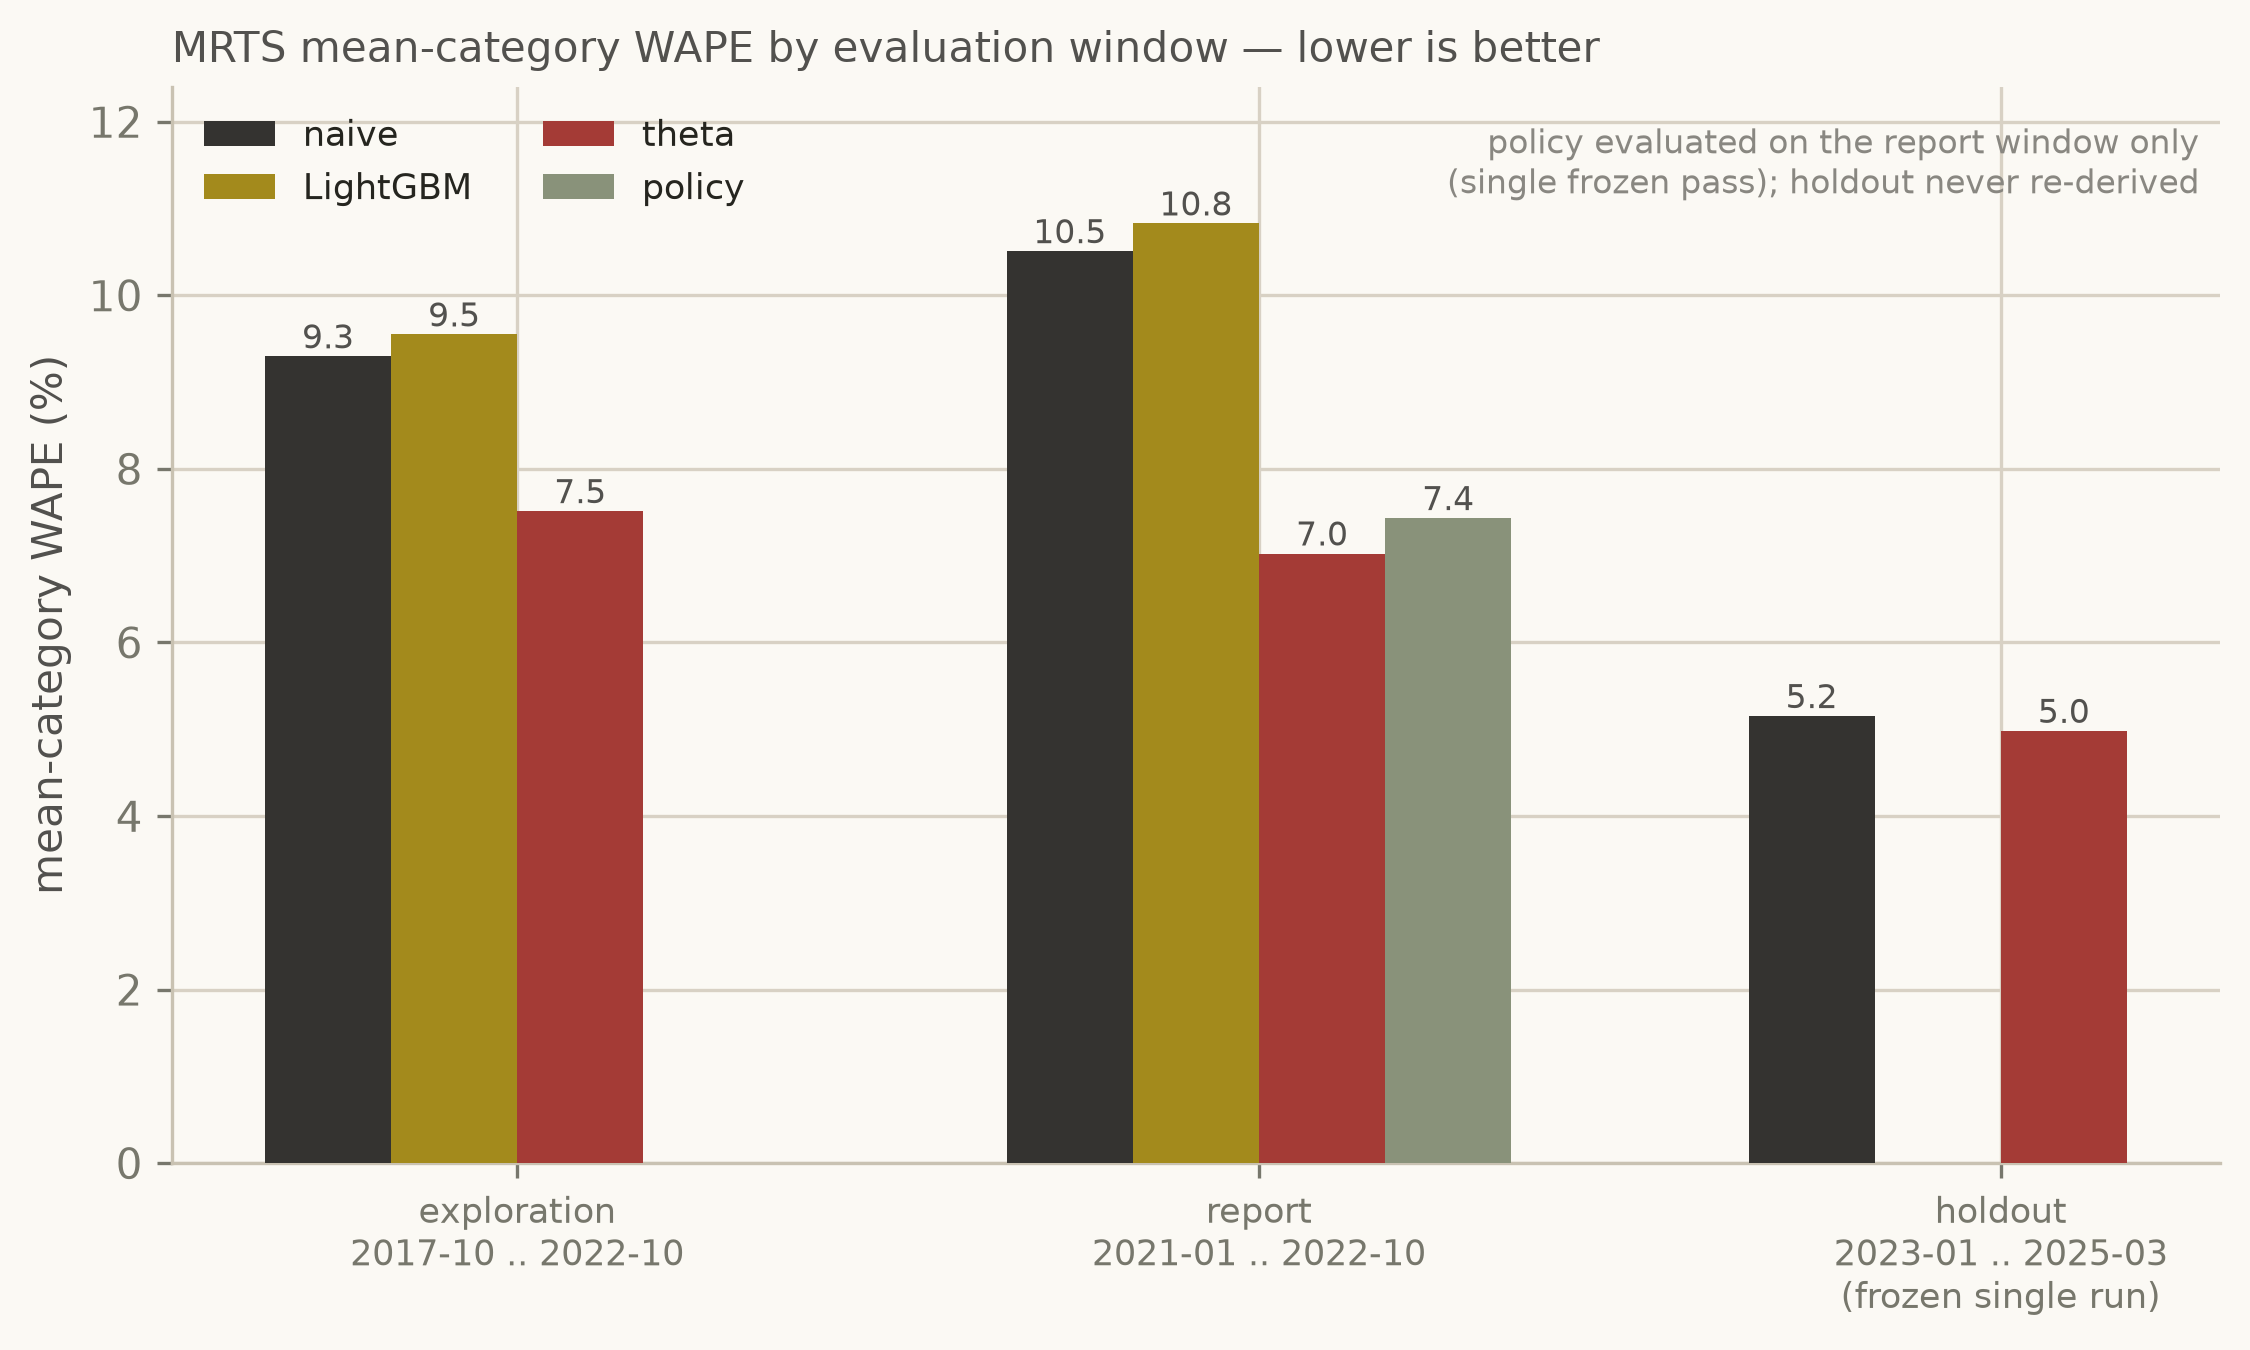
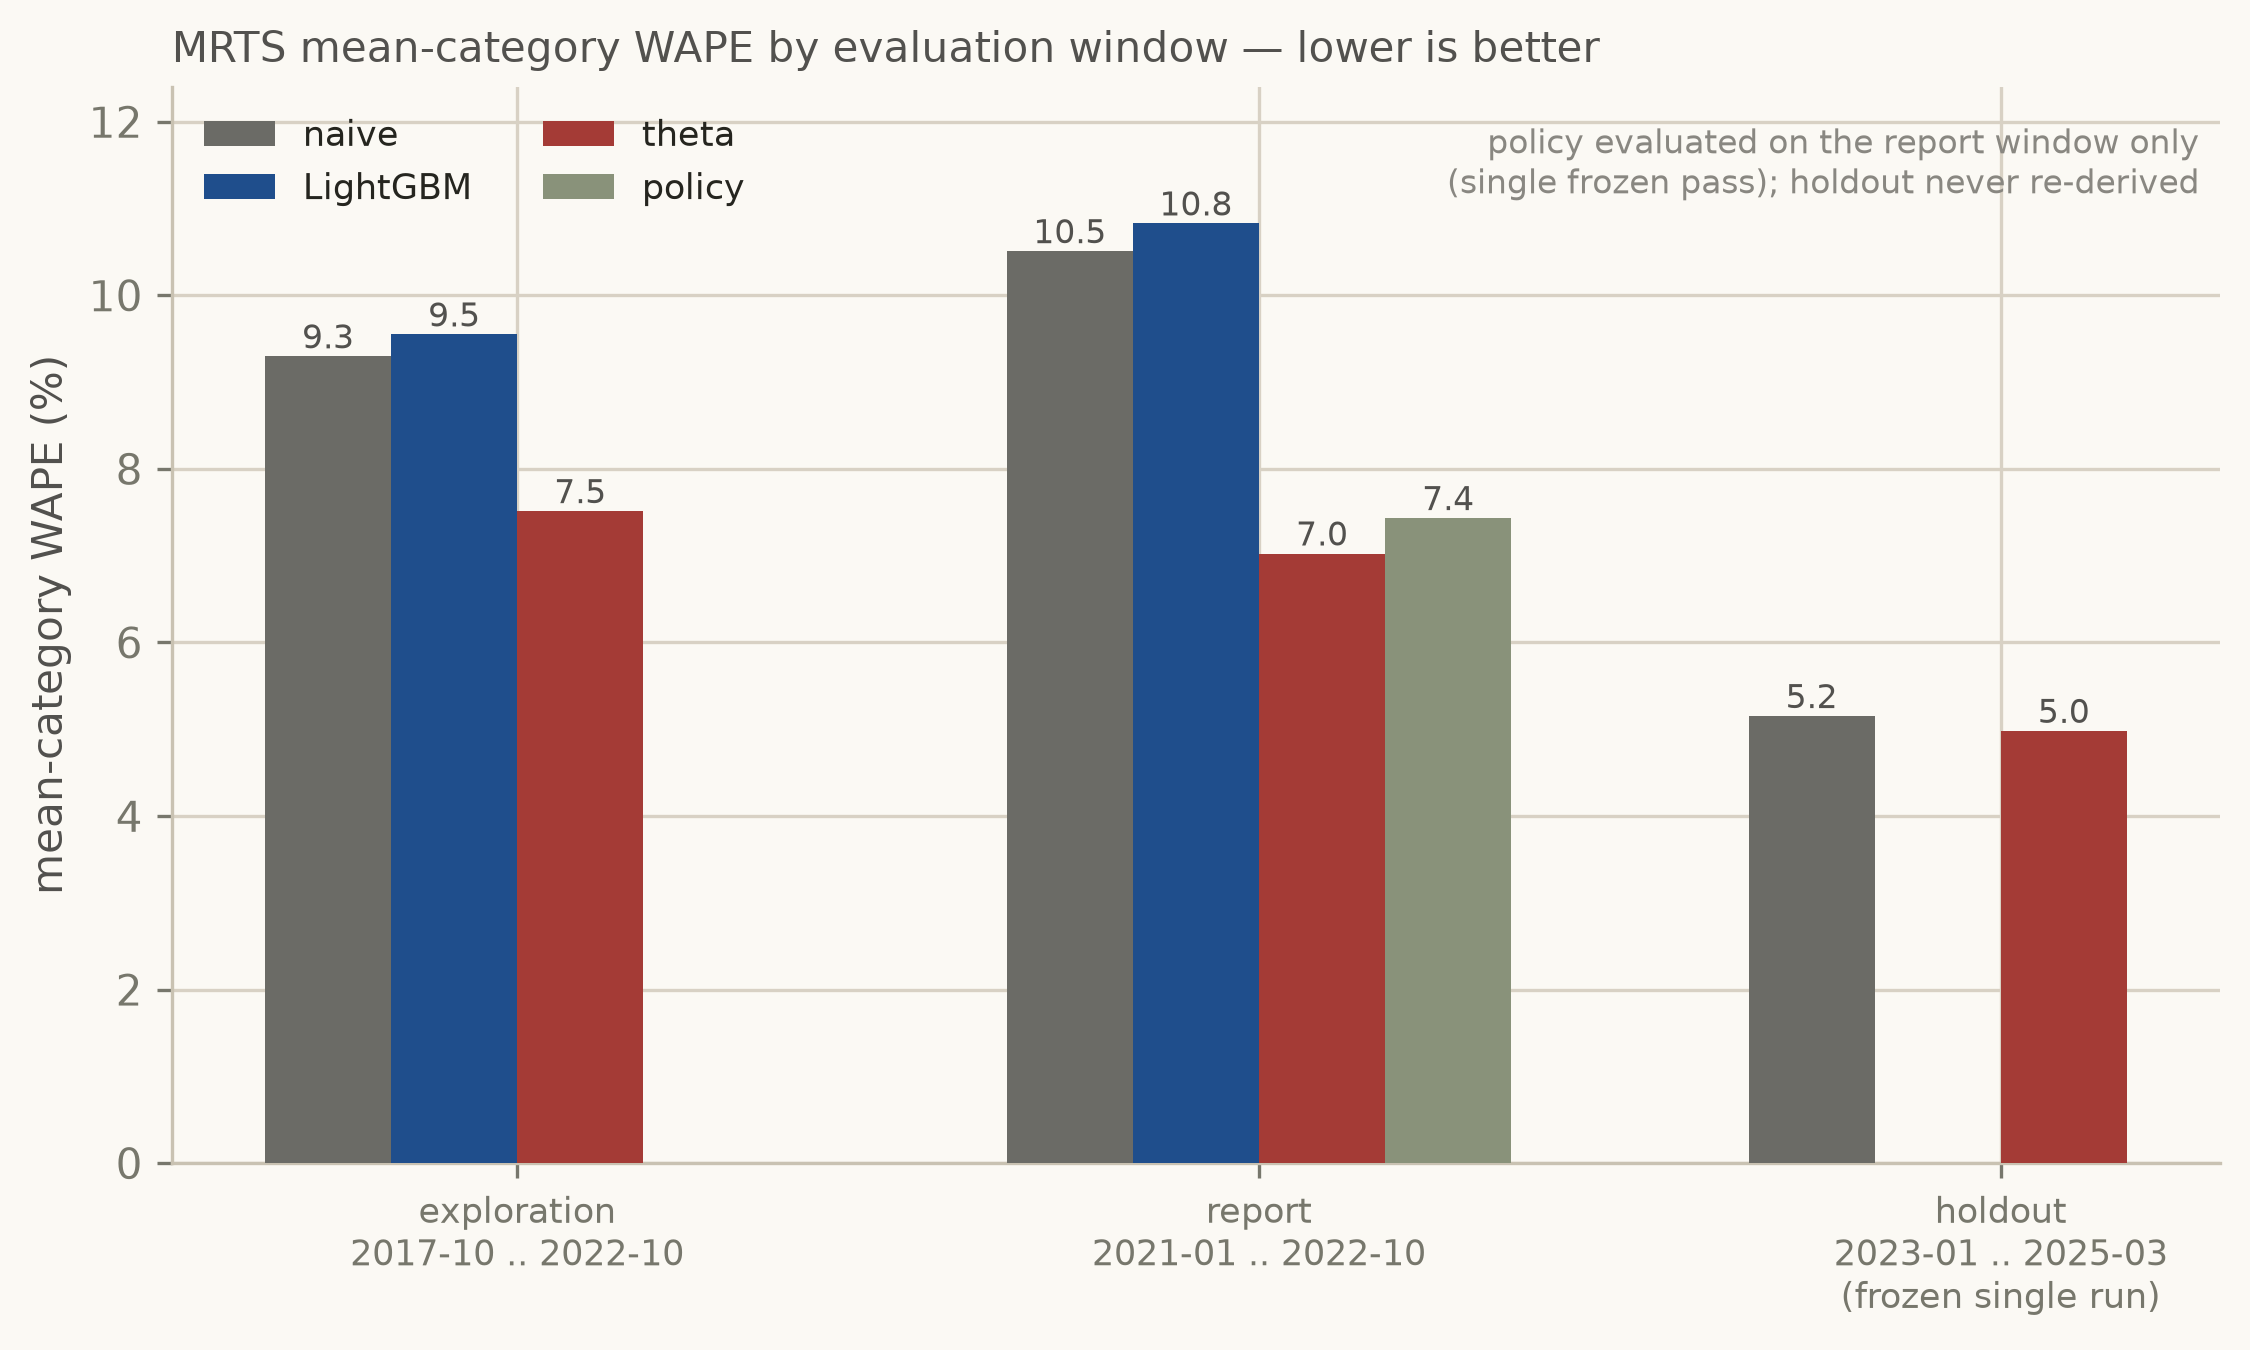
Lab and story figures adopt the serene Japanese palette
nezumi soft gray naive, koiai deep indigo LightGBM, shu crimson theta,
rikyu sage policy - matching the satellite's retheme; the lab's tau
slider gets the diluted-crimson blend reference so naive and blend are
no longer near-identical grays.

diff --git a/frontend/src/components/lab/TauSweepSlider.tsx b/frontend/src/components/lab/TauSweepSlider.tsx
@@ -80,9 +80,9 @@ export const TauSweepSlider: FC = () => {
               isAnimationActive={false}
               name="switched policy"
             />
-            <ReferenceLine y={100 * references.naive} stroke="#343330" strokeDasharray="4 3" />
+            <ReferenceLine y={100 * references.naive} stroke="#6b6b66" strokeDasharray="4 3" />
             <ReferenceLine y={100 * references.theta} stroke={CRIMSON} strokeDasharray="4 3" />
-            <ReferenceLine y={100 * references.blend} stroke="#77776c" strokeDasharray="4 3" />
+            <ReferenceLine y={100 * references.blend} stroke="#b86a62" strokeDasharray="4 3" />
             <ReferenceLine
               y={guardrailY}
               stroke={CRIMSON}

diff --git a/frontend/src/content/lab.ts b/frontend/src/content/lab.ts
@@ -194,8 +194,8 @@ export const gateCandidates: GateCandidate[] = [
 ];
 
 export const MODEL_COLORS: Record<string, string> = {
-  seasonal_naive: '#343330',
-  global_lightgbm: '#a38a1c',
+  seasonal_naive: '#6b6b66',
+  global_lightgbm: '#1f4e8c',
   theta_method: '#a43b36',
   regime_switch_policy: '#89927a',
 };
